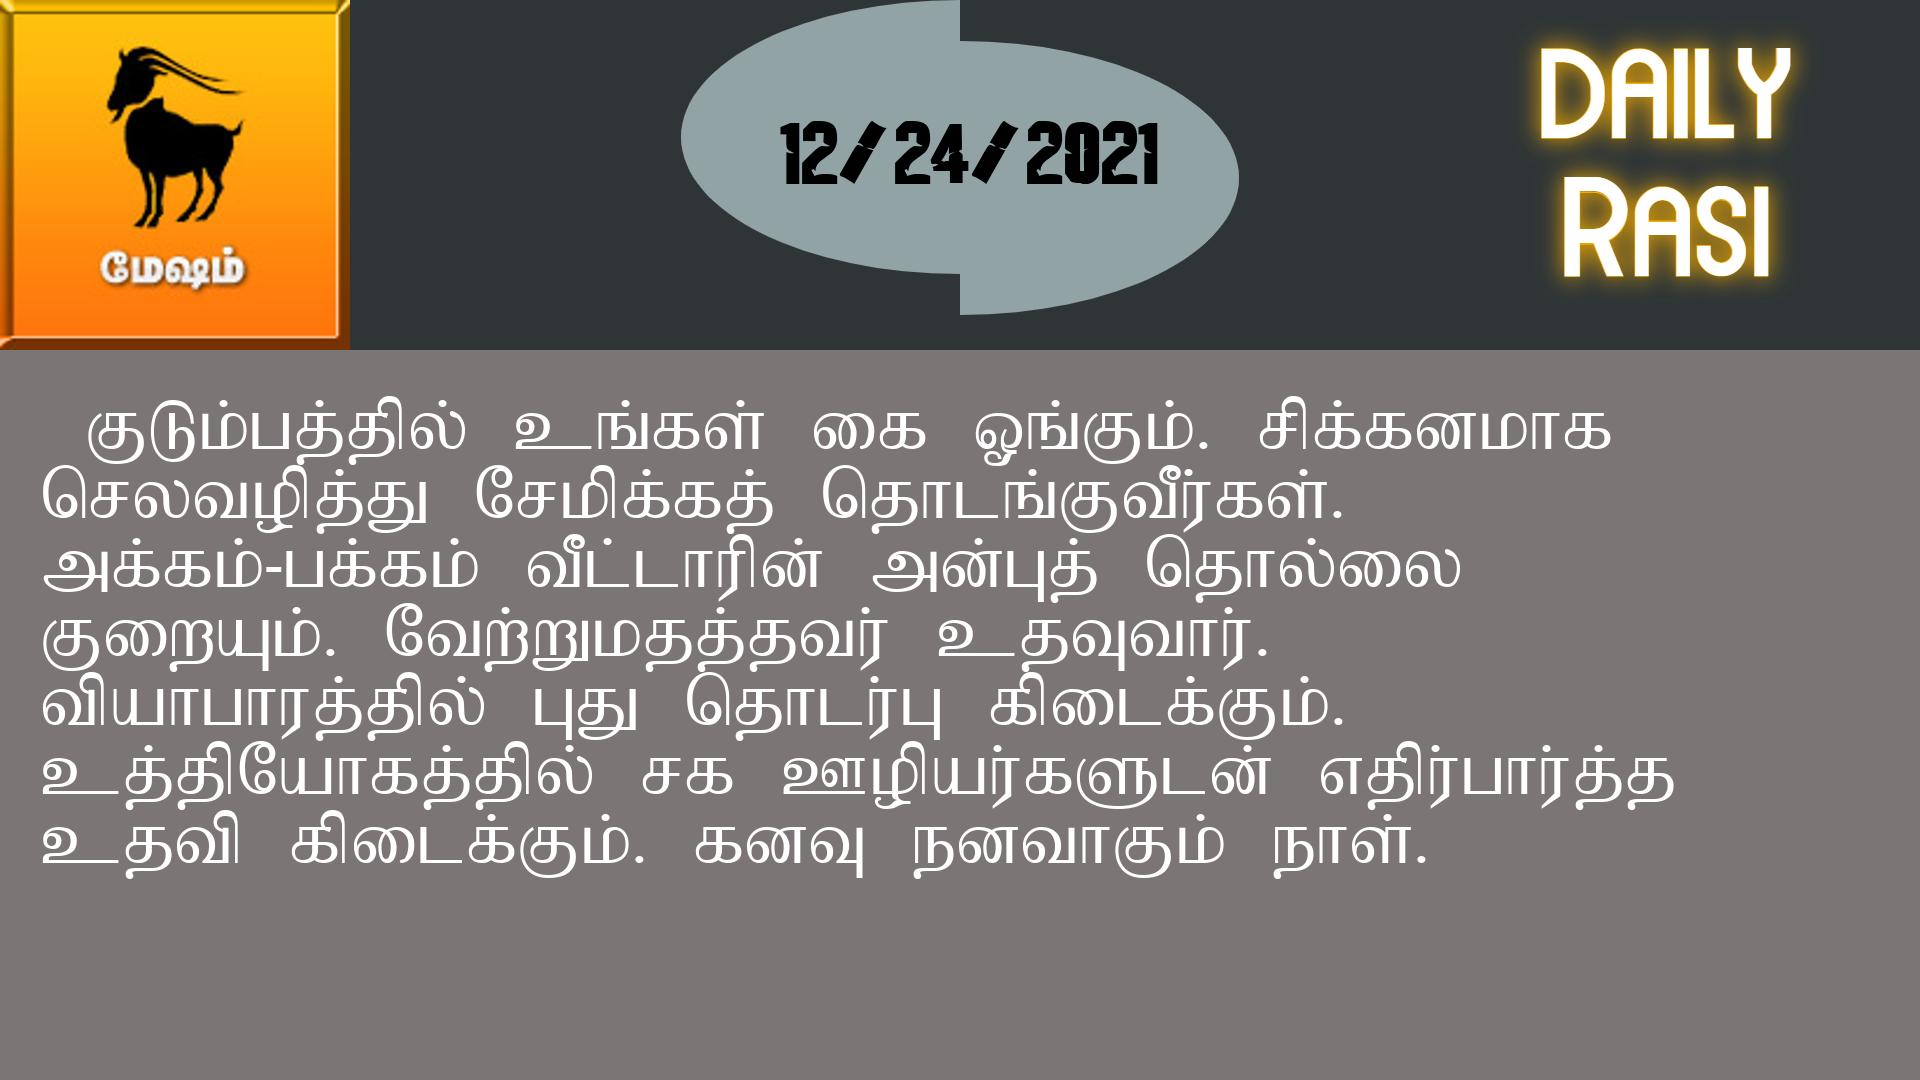
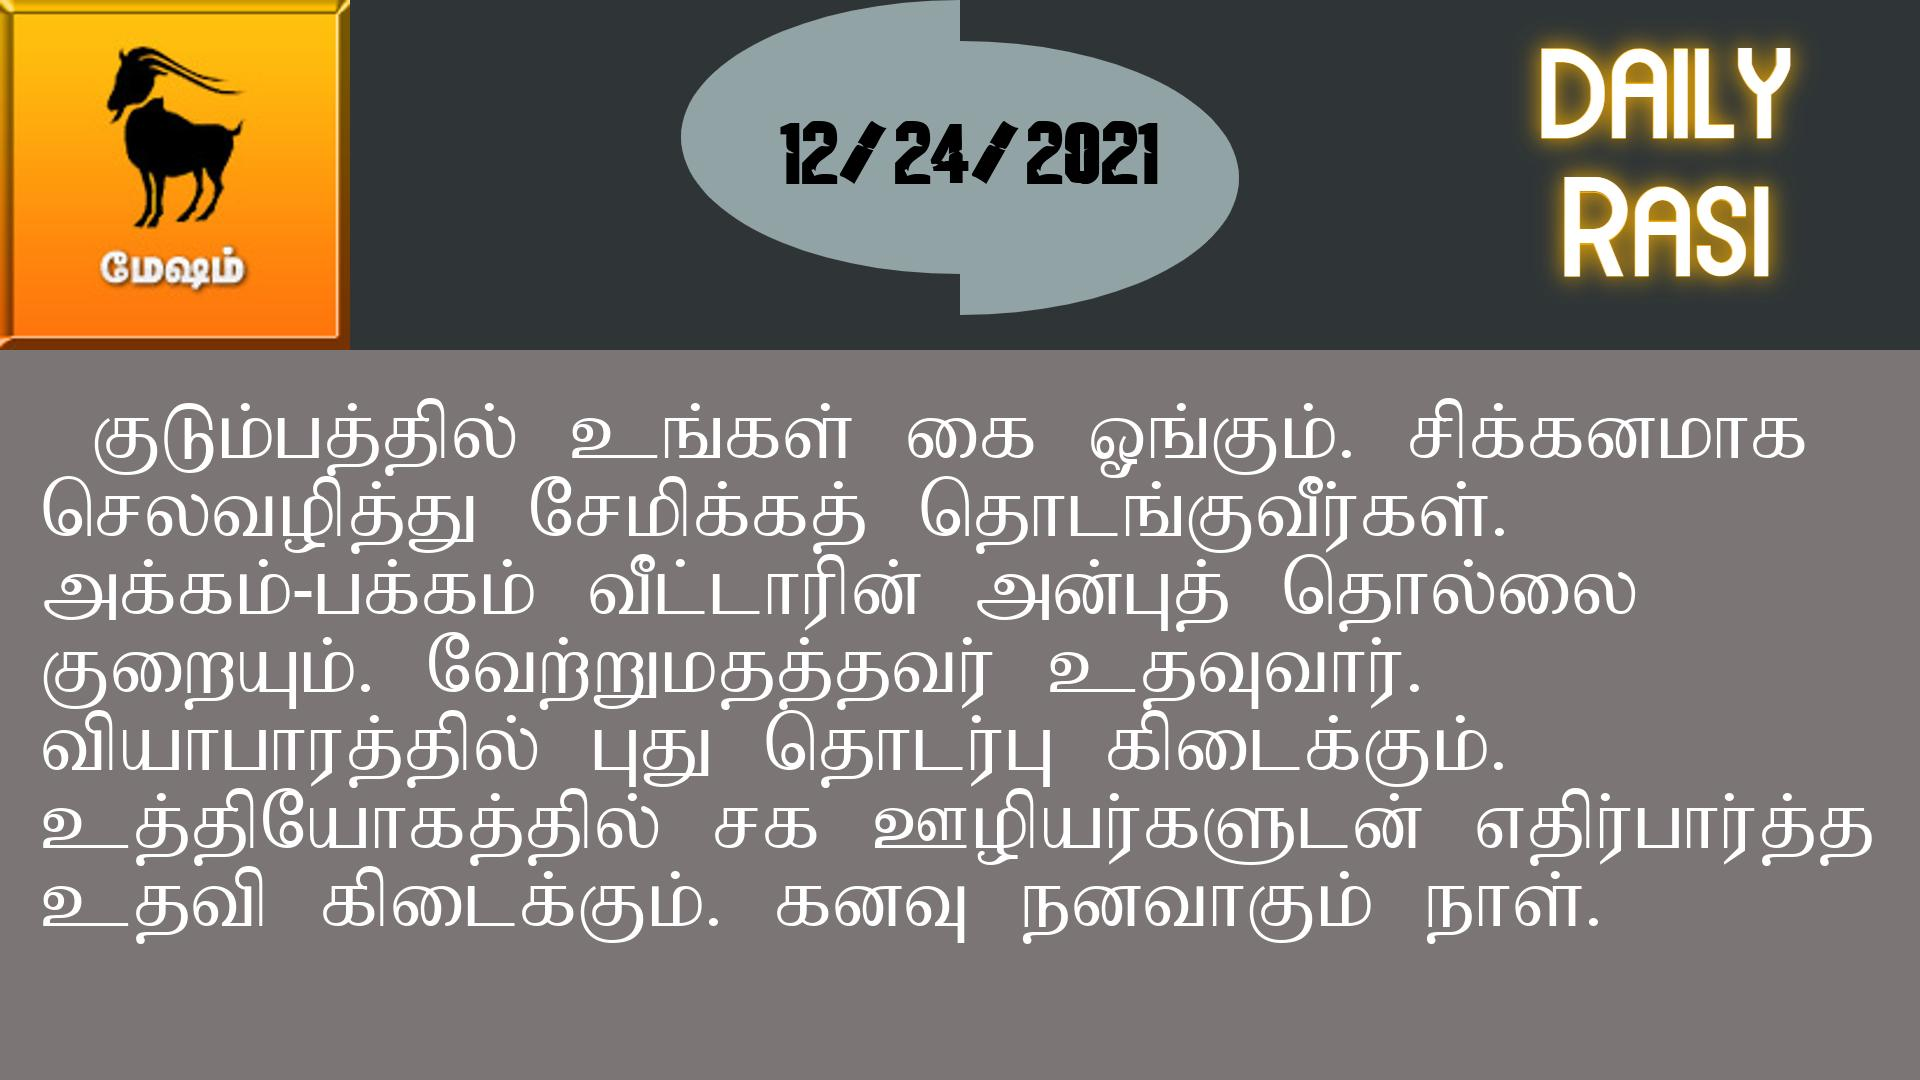
update

Changed region(s): [[0.0, 0.3667, 1.0, 0.8861]]

diff --git a/Backend/CommonTools/Facebook/DailyRasi.py b/Backend/CommonTools/Facebook/DailyRasi.py
@@ -21,7 +21,7 @@ access_token = os.environ.get('FB_DAILYRASI_ACCESS', None)
 tags = "#இன்றைய_ராசிபலன்"
 file_path = path.abspath(__file__)
 dir_path = path.dirname(file_path)
-print(dir_path)
+# print(dir_path)
 
 def unicodeChange(text):
     text = text.replace("ஸ்ரீ", "=")
@@ -376,7 +376,7 @@ def makeImg(date,rasiName,palan):
 
 
     newImg.paste(rasiImg,(0,0))
-    palanFont = ImageFont.truetype(dir_path+"/Fonts/Bamini.ttf", 80)
+    palanFont = ImageFont.truetype(dir_path+"/Fonts/Bamini.ttf", 90)
     dateFont = ImageFont.truetype(dir_path+"/Fonts/Godzilla.ttf", 80)
     draw = ImageDraw.Draw(newImg)
     draw.text((780, 120), date, fill=(0, 0, 0), font=dateFont)
@@ -402,7 +402,7 @@ def postToFacebookImage(rasi,date):
     # The Graph API allows you to read and write data to and from the Facebook social graph
     asafb = fb.GraphAPI(access_token)
 
-    asafb.put_photo(open(dir_path+"/rasiImg.jpg", "rb"), message=tags+" #"+rasi+" #"+date.replace("/", "_"))
+    asafb.put_photo(open(dir_path+"/rasiImg.jpg", "rb"), message=tags+" #"+rasi)
     os.remove(dir_path+"/rasiImg.jpg")
 
 
@@ -422,7 +422,7 @@ def Run():
             postToFacebookImage(rasi,newPostData[0])
             print("===> ", rasi, end=" : posted\n")
             time.sleep(5)
-            break
+            # break
 
 
             # print(postText)
@@ -434,5 +434,5 @@ def Run():
 
 
 if __name__ == "__main__":
-    # Run()
+    Run()
     pass
